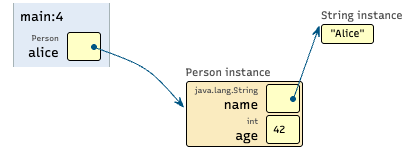
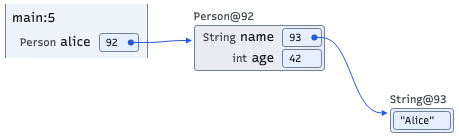
docs: explain diagrams and accessibility support

diff --git a/docs/accessibility.md b/docs/accessibility.md
@@ -1,0 +1,109 @@
+# Accessibility and WCAG scope
+
+The renderer supplies contrast-tested default palettes and descriptive SVG
+exports. These are specific accessibility features, not a declaration that the
+application, every exported diagram, or an embedding page conforms to a complete
+WCAG level. This guide uses WCAG 2.2 success criteria.
+
+## Verified features and compliance levels
+
+| Feature | WCAG 2.2 criterion and level | What is established |
+| --- | --- | --- |
+| Default text colors | [1.4.3 Contrast (Minimum), AA](https://www.w3.org/WAI/WCAG22/Understanding/contrast-minimum.html); [1.4.6 Contrast (Enhanced), AAA](https://www.w3.org/WAI/WCAG22/Understanding/contrast-enhanced.html) | Palette tests require at least 7:1 for primary, secondary, and special text against all five default surfaces in both themes. This satisfies the normal-text contrast thresholds of 4.5:1 and 7:1 for those combinations. |
+| Default borders and reference colors | [1.4.11 Non-text Contrast, AA](https://www.w3.org/WAI/WCAG22/Understanding/non-text-contrast.html) | Palette tests require at least 3:1 against each default surface, including muted references from inactive frames. These color comparisons meet the criterion's contrast threshold; they do not evaluate every possible overlapping graphic. |
+| SVG text alternatives | [1.1.1 Non-text Content, A](https://www.w3.org/WAI/WCAG22/Understanding/non-text-content.html) | Exports contain a summary and structured state description. This supports providing an equivalent text alternative; usefulness and exposure in the actual embedding/browser/assistive-technology combination still need review. |
+
+A complete Level AA claim requires all applicable Level A and AA criteria; Level
+AAA additionally requires all applicable AAA criteria. Contrast results alone do
+not establish either. Full-page behavior, complete processes, and accessibility
+support also matter. See the [WCAG conformance requirements](https://www.w3.org/TR/WCAG22/#conformance-reqs).
+
+The [palette tests](../cs1302_code_visualizer/frontend/tests/theme.test.ts),
+[description tests](../cs1302_code_visualizer/frontend/tests/svgDescription.test.ts),
+and [SVG export tests](../cs1302_code_visualizer/frontend/tests/svgExport.test.ts)
+provide automated evidence for these implementation features. They do not replace
+keyboard, zoom, or screen-reader acceptance testing of the final content.
+
+## Default light and dark colors
+
+These values come from the [shared palette](../cs1302_code_visualizer/frontend/js/theme.ts).
+Both themes use the same semantic roles and contrast thresholds.
+
+| Role | Light | Dark |
+| --- | --- | --- |
+| Canvas | `#ffffff` | `#131416` |
+| Inactive stack frame | `#f8f9fb` | `#1a1c1e` |
+| Active stack frame | `#eff3fa` | `#1c2736` |
+| Object surface | `#e9edf3` | `#252b34` |
+| Value surface | `#e6efff` | `#233754` |
+| Primary text | `#1e1e1e` | `#cfd0d0` |
+| Secondary/type text | `#454950` | `#c9cdd3` |
+| Special labels (`this`, return values) | `#8a1c3a` | `#ffd0dc` |
+| Borders | `#718096` | `#8b98aa` |
+| Active-frame and heap references | `#2757dd` | `#5ca5ff` |
+| Inactive-frame references | `#788496` | `#758397` |
+
+Choose `--theme light` or `--theme dark` for predictable exports. Standalone SVG
+uses light when the theme is omitted; adaptive inline SVG can follow the host's
+`data-theme`. Explicit `auto` follows the viewing system preference. PNG colors
+are fixed when rendered. The [theme guide](themes.md) covers embedding, overrides,
+printing, and visual examples.
+
+Inline SVG has a transparent canvas, so contrast depends on the host background.
+Changing public CSS colors or backgrounds requires a fresh contrast check.
+Literal Java `Color` swatches deliberately retain the program's colors and are
+outside the default-palette guarantees. Antialiasing, thin strokes, and reducing
+a diagram's displayed size can also affect practical readability even when the
+specified color pair passes a contrast calculation.
+
+## What an SVG includes
+
+The root SVG has `role="img"`, `aria-labelledby="state-title"`, and
+`aria-describedby="state-description"`. It contains:
+
+- A `<title>` with a concise summary and frame/object counts.
+- A `<desc>` listing stack frames and visible variables before heap objects,
+  including fields, array elements, values, and named reference targets.
+- A `<metadata data-description="1">` element containing the description as JSON
+  for applications that present it as structured HTML. Metadata alone is not a
+  user-facing text alternative.
+
+The description follows the selected state and visible content: hidden fields
+are omitted, shared objects appear once, and cycles are described as references
+rather than expanded recursively. Review the result for the lesson's purpose;
+a state inventory does not automatically explain an algorithm or its significance.
+
+SVG text remains selectable when opened directly or embedded inline. PNG pixels
+do not provide selectable labels or the SVG's embedded description. Converting
+an SVG to a raster image or PDF does not automatically transfer its accessibility
+semantics; provide text alternatives and check the destination format separately.
+
+## Publish an understandable alternative
+
+For PNG or SVG displayed through `<img>`, provide meaningful HTML `alt` text and
+nearby prose or a linked long description for a complex state. Do not assume an
+SVG's internal description will be exposed through an image embedding. W3C's
+[complex-image guidance](https://www.w3.org/WAI/tutorials/images/complex/) explains
+how a short label and longer description work together.
+
+For the quickstart example, suitable adjacent prose is: “The main frame's alice
+variable refers to a Person. Its age is 42; its name refers to the String
+containing Alice.” A larger graph needs a correspondingly complete alternative,
+including shared references and cycles when relevant to the lesson.
+
+For inline SVG, preserve its accessibility attributes, title, description, and
+styles. Prefix IDs uniquely when embedding several diagrams and update all ID
+references, including ARIA and clipping references. The comparison gallery
+provides a keyboard-operable **Text description** disclosure with headings and
+lists; that disclosure belongs to the gallery, not to every exported SVG.
+
+Check the actual host page with keyboard navigation, zoom, and the intended
+screen reader/browser. Confirm that the diagram has a useful name, its full
+alternative can be reached, and labels are not announced redundantly. Manual
+VoiceOver/Safari acceptance remains necessary; automated tests do not establish
+it. The [SVG review guide](svg-gallery.md#check-selection-and-accessibility)
+contains the reproduction and manual-review procedure. Interactive stepping
+controls and host-page navigation need their own review before a full WCAG claim.
+
+See [reading diagrams](reading-diagrams.md) for the visual key and
+[known exceptions](known-exceptions.md) for continuing validation limits.

diff --git a/docs/reading-diagrams.md b/docs/reading-diagrams.md
@@ -1,0 +1,59 @@
+# Reading a memory diagram
+
+A diagram is a snapshot of the captured execution state. It shows variables and
+objects, not the physical arrangement of memory or the history of every change.
+
+## Start with the quickstart
+
+![The main frame holds alice, which refers to a Person whose name refers to the Alice string and whose age is 42](../demo.png)
+
+In this example, follow the arrow from `alice` to the `Person` object. Its `age`
+field holds the integer `42`; its `name` field refers to the String containing
+`"Alice"`. The numbers inside reference boxes identify objects in this trace;
+they are not the values of `age` or `name`.
+
+## Visual key
+
+| Element | How to read it |
+| --- | --- |
+| Stack frame, such as `main:5` | A method invocation and its displayed source-line context. Rows show its visible variables. The line label is a source line, not an execution-step count. |
+| Variable or field row | The name identifies the variable or field; an optional type label gives its declared type. The value box contains a primitive value, `null`, or an object reference. |
+| Heap object, such as `Person@92` | The concrete runtime class and trace object ID. IDs identify objects within the trace; they are not memory addresses or Java identity hash codes and may change between runs. |
+| Dot, shaft, and arrowhead | Start at the dot in the reference box and follow the shaft to its arrowhead at the target. Curves and detours are layout choices, not intermediate operations. |
+| Several arrows to one object | Aliases: different variables or fields refer to the same object, rather than separate copies. Matching reference IDs also indicate shared identity. |
+| Arrow back to an earlier object or itself | A cycle or self-reference. Follow the arrowhead; left-to-right position does not determine the direction of the relationship. |
+| `null` | No object reference, so there is no target arrow. It is distinct from the string `"null"`. |
+| Array | The label gives its type, ID, and length. Indexed cells hold values or references; changing horizontal/vertical orientation does not change index order or contents. |
+
+The highlighted stack-frame background marks the active frame. Blue references
+originate in that frame or in heap objects; muted references originate in
+suspended/inactive frames. Muting does not mean an object is unreachable or ready
+for garbage collection. Use labels, source boxes, and arrowheads to establish
+identity rather than relying on color alone.
+
+Arrows prefer routes around other objects and protect visible text. A crossing
+in clear space is not a connection between the arrows, and passing near a box
+does not make it the target. Detours can enlarge the image while object placement
+and text size remain unchanged. See [reference routing](reference-routing/README.md).
+
+## Strings and presentation options
+
+- `default`: a reference points to a separate String object containing the literal.
+- `compact`: the reference ID and a short arrow appear beside the literal. A shared
+  literal may be repeated visually while retaining the same reference ID.
+- `inline`: the literal appears in the value box. This presentation emphasizes
+  the value; use default or compact when teaching String reference identity.
+
+See [string styles](string-style/README.md) for examples. `--no-types` hides declared
+types, while heap class labels remain. `--text-memory-labels` replaces persistent
+arrows and dots with textual reference IDs; match those IDs to object labels.
+Interactive hover behavior may still reveal arrows to visible heap objects.
+
+A snapshot can omit fields, variables, or objects because of filtering and
+presentation settings. Do not infer that omitted content never existed. When
+comparing steps, use object identity and values rather than screen position.
+See [execution-step selection](../README.md#choose-execution-steps) and
+[array layout](array-orientation/README.md) for the relevant options.
+
+For text alternatives, light/dark colors, and the scope of WCAG claims, see
+[accessibility](accessibility.md).

diff --git a/README.md b/README.md
@@ -2,7 +2,7 @@
 
 Create memory diagrams from Java programs for lectures, assignments, and other teaching materials.
 
-![Java memory diagram showing a Person record](demo.png)
+![The main frame holds alice, which refers to a Person with age 42 and a name reference to the Alice string](demo.png)
 
 ## Install
 
@@ -42,6 +42,39 @@ For editable vector artwork, use `code-visualizer Main.java --format SVG -o main
 SVG also supports all steps and batch rendering; see [SVG exports](docs/cli.md#svg-exports).
 
 Open `main.png` and insert it into your teaching material. Use `--dpi 2` for a larger image. Single-file mode replaces existing output files; choose a new filename to retain an earlier image.
+
+## Read the diagram
+
+Start at a variable's reference dot and follow the arrowhead to its object. In
+this example, `alice` refers to a `Person`; `age` contains `42`, while `name`
+refers to the String `"Alice"`.
+
+- Stack frames show method invocations and their visible variables. A label such
+  as `main:5` includes source-line context, not an execution-step count.
+- Heap labels such as `Person@92` show the runtime class and trace object ID.
+  IDs identify shared objects; they are not memory addresses.
+- Several references to one object are aliases. A returning arrow can form a
+  cycle or self-reference; an arrow crossing is not a connection.
+- `null` has no target arrow. Array indices identify elements regardless of
+  whether the array is displayed horizontally or vertically.
+- The active frame is highlighted. Blue references come from it or heap objects;
+  muted references come from inactive frames, not necessarily unreachable objects.
+
+See [reading memory diagrams](docs/reading-diagrams.md) for the visual key,
+string styles, and how presentation options change what is visible.
+
+## Accessibility
+
+Both default palettes are tested for **at least 7:1 text contrast** (the WCAG 2.2
+AAA text-contrast threshold) and **3:1 border/reference contrast** (the AA
+non-text threshold). SVG exports include an accessible summary and full state
+description; their labels remain selectable when viewed directly or inline.
+PNG needs a text alternative supplied by the author.
+
+These are criterion-specific features, not a claim of complete WCAG AA or AAA
+conformance. Custom colors, embedding, and assistive-technology behavior require
+review. See [accessibility and WCAG scope](docs/accessibility.md) for default
+light/dark colors, criterion levels, SVG descriptions, and publishing guidance.
 
 ## Choose colors
 
@@ -90,6 +123,9 @@ Each file is traced as a separate program. Batch mode preserves relative directo
 
 - [Example gallery](examples/README.md): Java concepts and rendered diagrams.
 - [CLI guide](docs/cli.md): detailed command usage and troubleshooting.
+- [Reading diagrams](docs/reading-diagrams.md): frames, values, references, and object identity.
+- [Accessibility](docs/accessibility.md): WCAG criterion levels, palettes, and text alternatives.
+- [Reference arrows](docs/reference-routing/README.md): routing, text clearance, and a runnable example.
 - [Visualization themes](docs/themes.md): colors, Auto mode, embedding, and contrast.
 - [Python integration](HACKING.md): embed rendering in scripts and course builds.
 - [Contributing](CONTRIBUTING.md): develop, test, and release the project.

diff --git a/docs/themes.md b/docs/themes.md
@@ -119,9 +119,12 @@ These public overrides take precedence over the built-in palette, including duri
 
 ## Contrast and accessibility
 
-The default palette tests check primary, secondary, and special text against all five default surfaces in each theme at **at least 7:1**. That meets the normal-text contrast threshold in [WCAG 2.1 SC 1.4.6, Contrast (Enhanced), Level AAA](https://www.w3.org/WAI/WCAG21/Understanding/contrast-enhanced.html).
+The [accessibility guide](accessibility.md) lists every default light/dark color,
+WCAG 2.2 criterion levels, SVG text alternatives, and embedding responsibilities.
 
-The same tests check borders and both reference colors at **at least 3:1** against those surfaces. This is the threshold used for meaningful graphical objects in [WCAG 2.1 SC 1.4.11, Non-text Contrast, Level AA](https://www.w3.org/WAI/WCAG21/Understanding/non-text-contrast.html). Inactive-frame references still convey information, so the muted color is included in the checks.
+The default palette tests check primary, secondary, and special text against all five default surfaces in each theme at **at least 7:1**. That meets the normal-text contrast threshold in [WCAG 2.2 SC 1.4.6, Contrast (Enhanced), Level AAA](https://www.w3.org/WAI/WCAG22/Understanding/contrast-enhanced.html).
+
+The same tests check borders and both reference colors at **at least 3:1** against those surfaces. This is the threshold used for meaningful graphical objects in [WCAG 2.2 SC 1.4.11, Non-text Contrast, Level AA](https://www.w3.org/WAI/WCAG22/Understanding/non-text-contrast.html). Inactive-frame references still convey information, so the muted color is included in the checks.
 
 These are palette contrast checks, not a claim that the whole visualization or embedding page conforms to WCAG AA or AAA. Transparent inline canvases expose the host's background: verify contrast again if it differs from the default white or `#131416`. Custom colors, literal program swatches, text alternatives, keyboard behavior, and screen-reader use require their own review. See the [SVG accessibility checks](svg-gallery.md#check-selection-and-accessibility) and [palette tests](../cs1302_code_visualizer/frontend/tests/theme.test.ts).
 

diff --git a/docs/array-orientation/README.md b/docs/array-orientation/README.md
@@ -20,7 +20,7 @@ Resolution order:
 2. With alternation enabled, `arrayOrientation` specifies the 1D orientation. Every additional dimension flips that orientation: the default base produces horizontal / vertical / horizontal / vertical for ranks 1–4.
 3. Otherwise all arrays use the base orientation.
 
-Rank comes from the array object's type metadata (`int[][]`, for example), independently of which variable or parent references it. Ragged lengths do not change rank. A parent's override does not propagate to its children. Shared objects receive one consistent orientation, including across forward/backward stepping. Overrides are scoped to one visualizer and keyed by trace heap object IDs, not variable names.
+Rank comes from the array object's type metadata (`int[][]`, for example), independently of which variable or parent refers to it. Ragged lengths do not change rank. A parent's override does not propagate to its children. Shared objects receive one consistent orientation, including across forward/backward stepping. Overrides are scoped to one visualizer and keyed by trace heap object IDs, not variable names.
 
 Legacy untyped arrays use the base when rank is unavailable. A missing or invalid base orientation falls back to horizontal. Invalid per-object settings are ignored. Collections such as `ArrayList`, stacks, and queues keep their existing presentation. No interactive toggles are added. Python and CLI options are described below.
 
@@ -84,7 +84,7 @@ Array presentation does not alter execution traces or trace-cache keys. Settings
 ## Configuration gallery
 
 The dimensional fixture has a 3D array (ID `1`), two ragged 2D arrays (`2`, `3`),
-and 1D arrays (`4`, `5`). Both 2D arrays reference row `4`, which is also referenced
+and 1D arrays (`4`, `5`). Both 2D arrays refer to row `4`, which is also referred to
 by a local variable. These examples use the production renderer.
 
 | Configuration | Example |

diff --git a/docs/known-exceptions.md b/docs/known-exceptions.md
@@ -39,10 +39,13 @@ not a record of completed work or a substitute for fresh validation.
   otherwise equivalent tracer runs. Cross-version comparisons may normalize those
   values and expected source-metadata differences, but must retain raw output and
   investigate other differences. Revisit when tracer identity semantics change.
-- **Connector geometry:** representative fixtures and route tests do not guarantee
-  that arbitrary graphs are free of crossings. Older array review captures noted
-  crossings; subsequent routing changes mean those captures are not evidence of
-  current behavior. Reproduce any reported crossing against the current renderer.
+- **Connector geometry:** ordinary crossings through clear space are permitted;
+  arbitrary graphs are not guaranteed to be crossing-free or independently
+  traceable. Text remains protected. Fixed-position routing uses a bounded set of
+  candidates before local spacing repair; externally constrained CSS can prevent
+  repair and cause a diagnostic. Revisit when routing candidates, CSS layout, or
+  attachment rules change. Reproduce reported failures against the current
+  renderer using the [routing validation guidance](reference-routing/README.md#validation-and-performance).
 - **Build advisories:** webpack emits bundle-size advisories. Successful builds do
   not resolve that performance concern; reassess when bundle contents or delivery
   requirements change.

diff --git a/docs/svg-gallery.md b/docs/svg-gallery.md
@@ -43,6 +43,10 @@ Gallery checks supplement the required `make check`, `make test-examples`, distr
 
 ## Check selection and accessibility
 
+See [accessibility and WCAG scope](accessibility.md) for the feature/criterion
+mapping and author responsibilities. The checks below provide focused evidence;
+they do not establish whole-page WCAG conformance.
+
 The gallery embeds SVG markup directly so its text can be selected and copied. Local IDs are scoped per diagram to keep clipping and accessible labels independent. Downloads retain the standalone SVG with its summary and complete description. The gallery exposes the full description once, in a keyboard-operable **Text description** disclosure with headings and lists.
 
 Run the browser checks sequentially because they exercise the clipboard. They copy known test text and verify pasting into a controlled text area; they do not read pre-existing clipboard contents. The checks replace the clipboard with test text. Firefox and its Selenium driver are required for the second command.

diff --git a/HACKING.md b/HACKING.md
@@ -176,4 +176,4 @@ Path("memory-embed.html").write_text(html, encoding="utf-8")
 
 Insert this snippet into your page and set an ancestor, such as the page's `body`, to `data-theme="light"`, `"dark"`, or `"auto"`. Omit `theme` in `render_html` to follow that attribute. Pass `theme="dark"` or `theme="auto"` to override it for that instance. Without `bundle_url`, the helper uses the installed package version's GitHub release bundle URL; that release asset must be available.
 
-See the [theme guide](docs/themes.md) for a complete static HTML recipe, a three-frame visual comparison, CSS color overrides, print behavior, and the scope of the contrast checks.
+See the [theme guide](docs/themes.md) for a complete static HTML recipe, a three-frame visual comparison, CSS color overrides, print behavior, and the scope of the contrast checks. The [accessibility guide](docs/accessibility.md) maps features to WCAG 2.2 criterion levels and explains how to preserve SVG descriptions when embedding or converting exports.

diff --git a/docs/cli.md b/docs/cli.md
@@ -2,6 +2,9 @@
 
 Start with the [instructor quickstart](../README.md). Commands below assume an installed `code-visualizer`; in a checkout, prefix commands with `uv run`.
 
+For the meaning of frames, boxes, IDs, and arrows, see [reading diagrams](reading-diagrams.md).
+For palette contrast levels and SVG/PNG text alternatives, see [accessibility](accessibility.md).
+
 ## Single-program inputs and outputs
 
 ```sh
@@ -50,6 +53,10 @@ alone. Sequences require an additional pass to measure their shared bounds.
 PNG and SVG use the same crop. `--dpi` scales output dimensions without changing
 the layout used to measure it. These defaults intentionally change image dimensions
 from earlier releases; documents that depend on the old dimensions may need updating.
+
+Reference arrows may take outside routes, increasing image bounds while preserving
+text size. See [reference routing](reference-routing/README.md) for attachment
+rules, placement repair, and a runnable example.
 
 ## SVG exports
 
